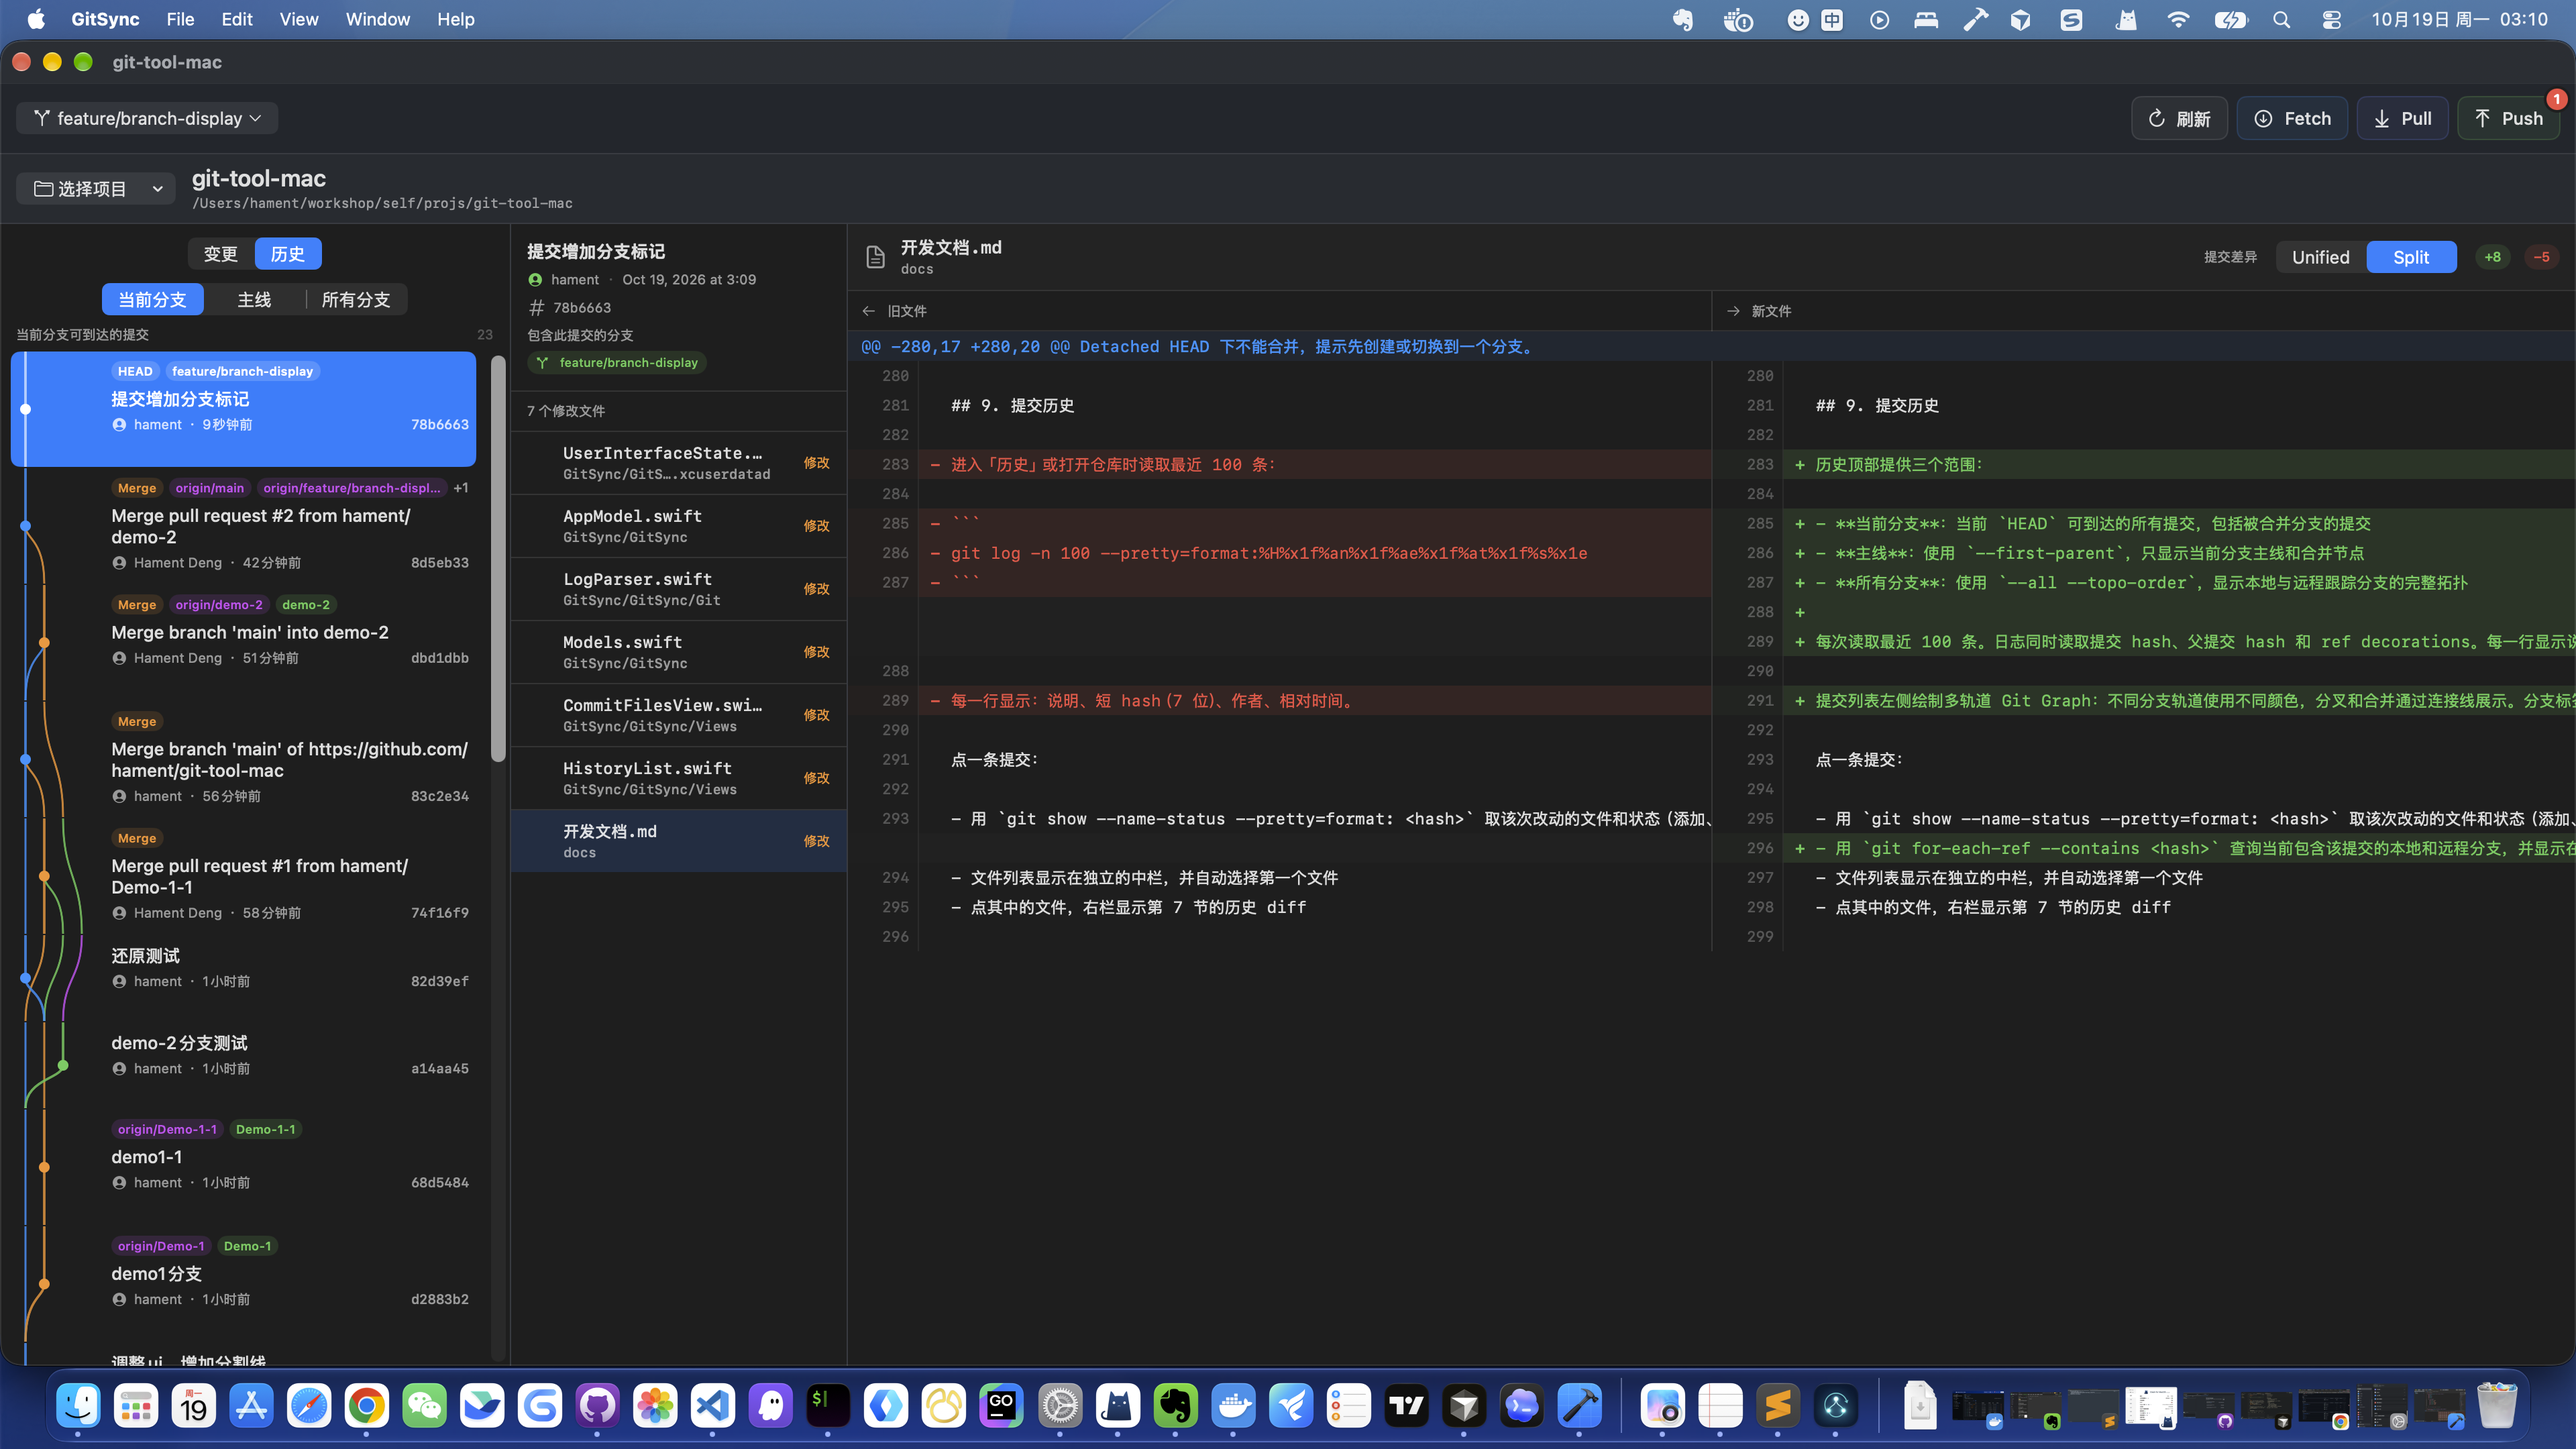
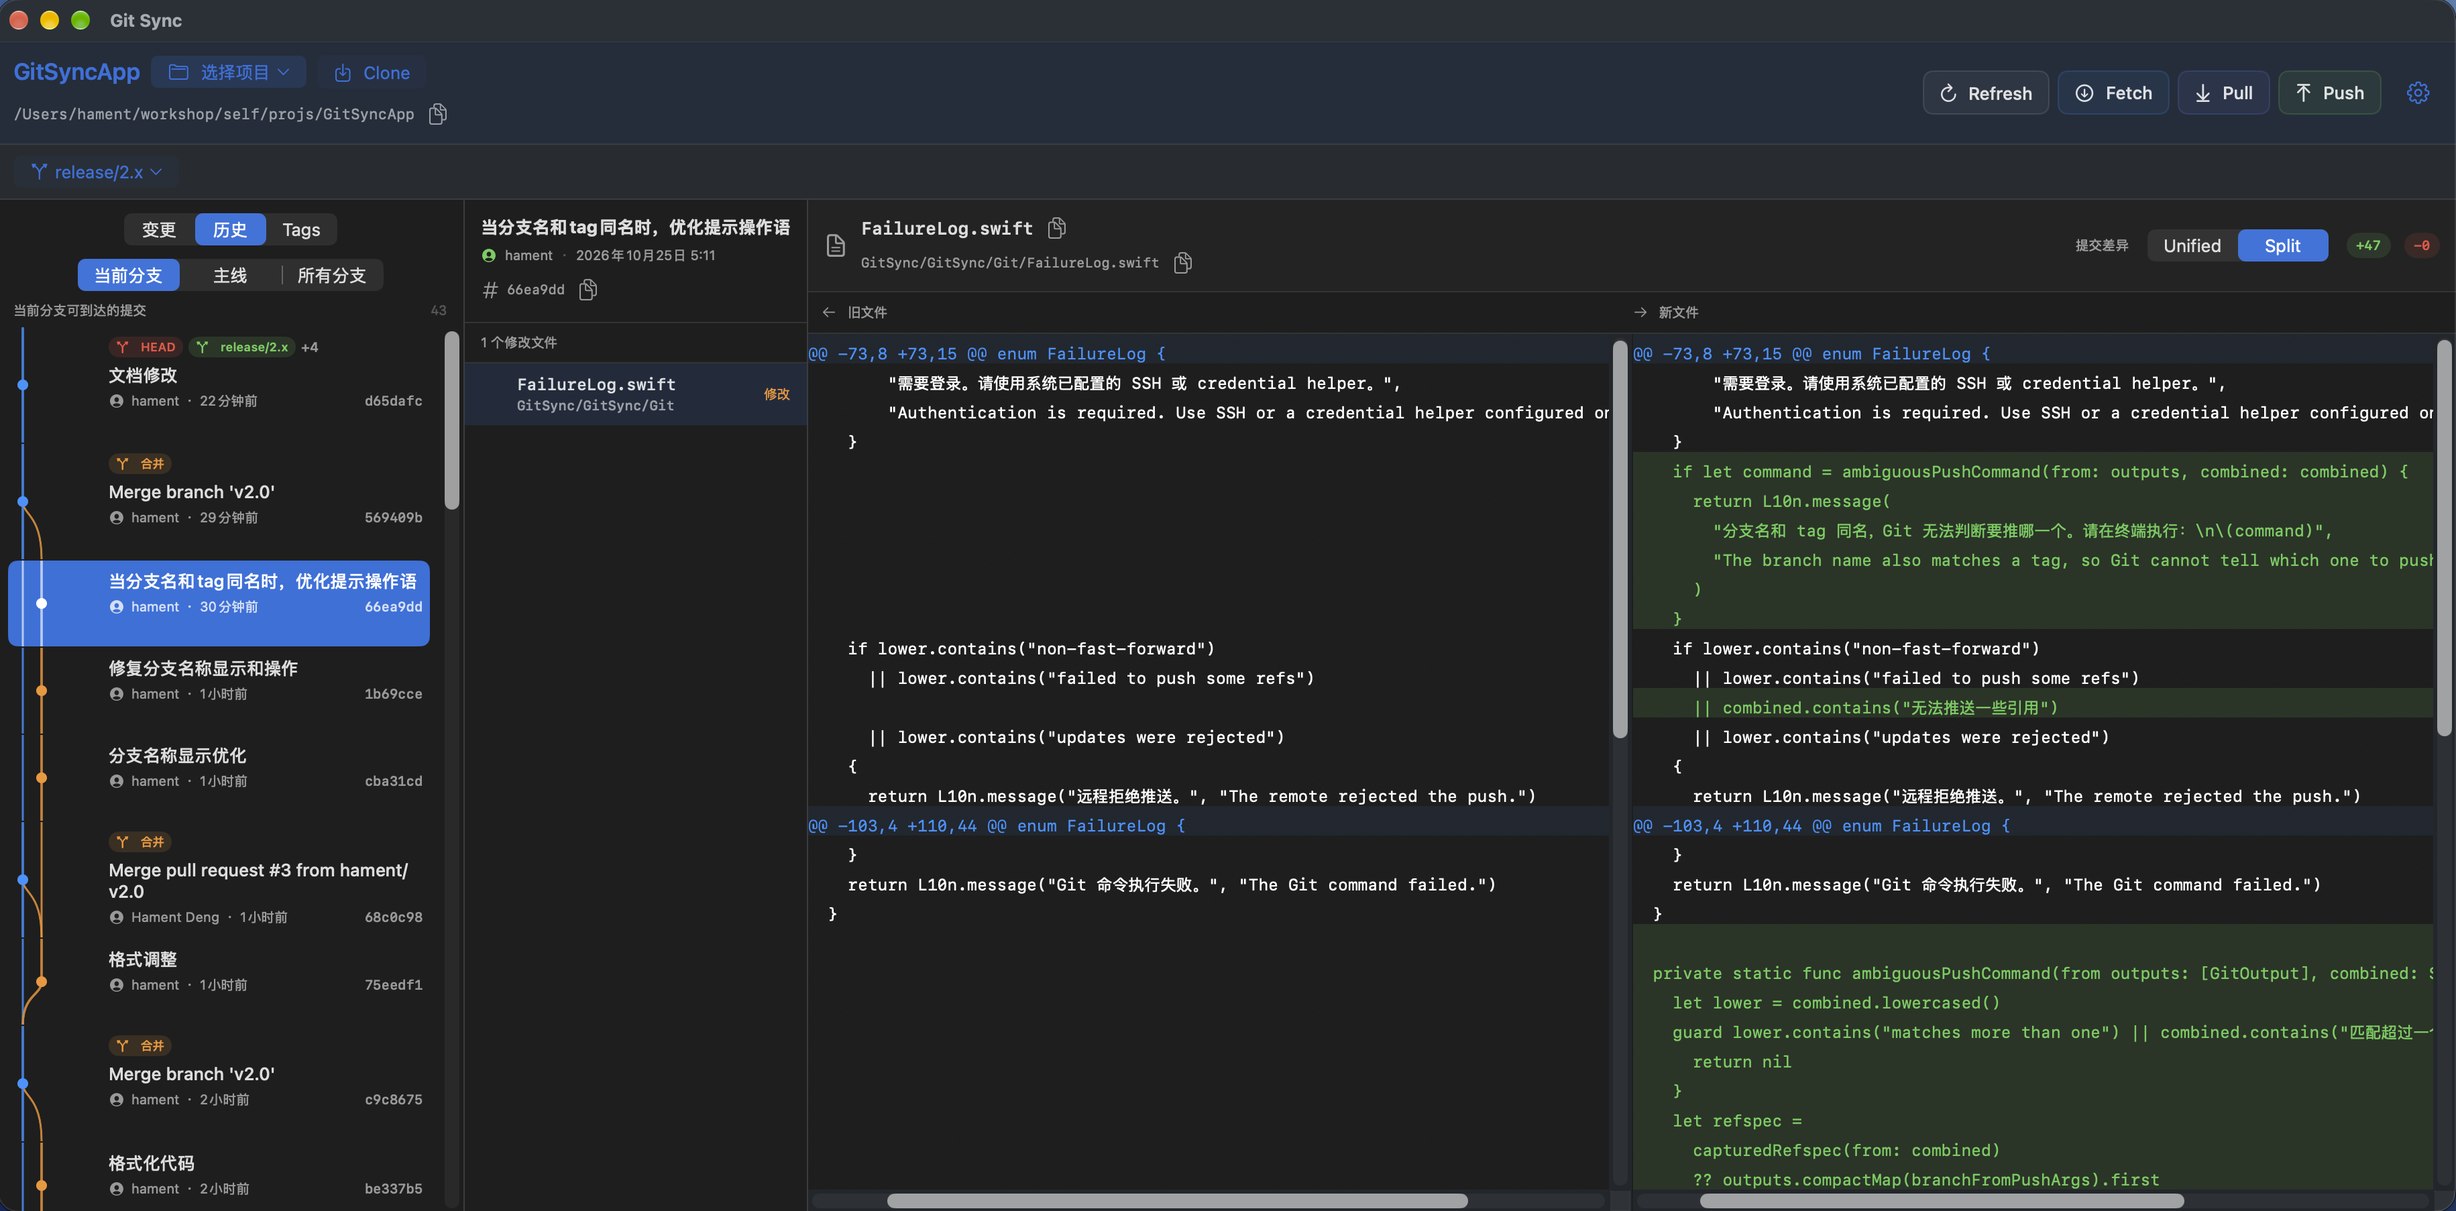
文档修改

diff --git a/README.en.md b/README.en.md
@@ -2,60 +2,63 @@
 
 [English](README.en.md) | [中文](README.md)
 
-A native Git app for Mac, written in Swift. Open a local repository to review file changes, manage branches, browse commit history, and Fetch, Pull, or Push.
+A native Git app for Mac, written in Swift. It stays light and fast. Open a local repository to review file changes, browse commit history and tags, and handle everyday remote sync. If GitHub Desktop feels heavy and slow, try this app.
 
-## Features
+## Highlights
+
+- **Basics**: Clone a repository, and Fetch, Pull, or Push the current one.
+- **Branches**: Search local and remote branches, compare any two branches side by side, or merge another branch into the current one.
+- **Multiple windows**: Each window holds one project, so you can work on several repositories at once.
+- **Theme colors**: Each project can have its own theme color.
+- **Languages**: The interface supports Simplified Chinese and English.
+- **Fast response**: The branch list still appears within a second even with tens of thousands of branches. Memory use and responsiveness are both well ahead of GitHub Desktop.
+
+## Interface
+
+The four screenshots below come from different project windows, each with its own theme color.
 
 ### File changes
 
-Check the files to commit, compare the diff on the right, and write the message at the bottom before committing.
+On Changes, check the files to commit, review the working tree diff on the right in Unified or Split mode, and write the message at the bottom. The toolbar switches projects, clones a repository, and runs Refresh, Fetch, Pull, and Push.
 
 ![File changes](images/1.文件变更.png)
 
-### Branches
-
-Search and switch local or remote branches, create a new branch, or merge another branch into the current one.
-
-![Branches](images/2.分支管理.png)
-
 ### Commit history
 
-View the commit graph for the current branch, the main line, or all branches. Select a commit to list its changed files, then compare them in Split or Unified mode.
+Open History to browse commits on the current branch, the main line, or all branches. Select a commit to see its message and changed files, then compare that commit's diff on the right. The first screenshot is Unified. The second is Split, with the old file and the new file side by side.
 
-![History, split diff](images/3.历史变更-split.png)
+![Current branch history, Unified](images/2.分支管理.png)
 
-![History, unified diff](images/4.历史变更-unified.png)
+![History, Split](images/3.历史变更-split.png)
+
+### Tags
+
+Search local tags on Tags. Select one to see its annotation, the commit it points to, and the changed files. Compare the content on the right in Unified or Split mode.
+
+![Tags](images/4.tags设置.png)
+
+## Build
+
+With Xcode installed, build from the repository root without opening the Xcode window:
+
+```bash
+xcodebuild \
+  -project GitSync/GitSync.xcodeproj \
+  -scheme GitSync \
+  -destination 'platform=macOS' \
+  -configuration Debug \
+  -derivedDataPath .build \
+  build
+```
+
+The first build creates the compiler cache and takes longer.
 
 ## Run
 
-With Xcode installed, you can build and launch from the repository root without opening the Xcode window:
-
 ```bash
-xcodebuild \
-  -project GitSync/GitSync.xcodeproj \
-  -scheme GitSync \
-  -destination 'platform=macOS' \
-  -configuration Debug \
-  -derivedDataPath .build \
-  build
-
 open .build/Build/Products/Debug/GitSync.app
 ```
 
-The first build creates the compiler cache and takes longer. After that, repeat the two commands above.
+The app is written to `.build/Build/Products/Debug/GitSync.app`. That directory is only for local builds and does not need to be committed.
 
 Quit a running copy before opening it again, or the previous process may stay open. After changing the code, rebuild first. Running `open` alone launches the last built app.
-
-## Build only
-
-```bash
-xcodebuild \
-  -project GitSync/GitSync.xcodeproj \
-  -scheme GitSync \
-  -destination 'platform=macOS' \
-  -configuration Debug \
-  -derivedDataPath .build \
-  build
-```
-
-The app is written to `.build/Build/Products/Debug/GitSync.app`. That directory is only for local builds and does not need to be committed.

diff --git a/README.md b/README.md
@@ -2,31 +2,50 @@
 
 [English](README.en.md) | 中文
 
-Mac 上的原生 Git 可视化工具App, 采用Swift开发。打开本机仓库后，可以查看文件变更、管理分支、浏览提交历史，并直接 Fetch、Pull、Push。
+Mac 原生的Git可视化App，用 Swift 开发，保持轻量,极致性能。打开本机仓库后，可以查看文件变更、浏览提交历史和 Tag，并完成日常的远程同步。如果你已经厌倦了github desktop 臃肿和响应缓慢, 可以尝试这个App!
 
-## 功能
+## 特色功能
+
+- **基本操作**：克隆仓库，以及对当前仓库执行 Fetch、Pull、Push。
+- **分支**：搜索本地和远程分支，任意两个分支可以放在一起对比，也可以把其他分支合并到当前分支。
+- **多窗口**：每个窗口对应一个项目，可以同时管理多个不同仓库。
+- **主题色**：不同项目可以各自设置主题色。
+- **多语言**：界面支持简体中文和 English。
+- **响应迅速**：即使加载多达上万个分支,分支列表依然可以秒级展示,无论内存占用还是响应速度,都大大优于github desktop的表现。
+
+## 界面
+
+下面四张图来自不同项目窗口，主题色也各不相同。
 
 ### 文件变更
 
-勾选要提交的文件，右侧对照查看 diff，在底部写说明后提交。
+在「变更」里勾选要提交的文件，右侧用 Unified 或 Split 查看工作区差异，底部写好说明后提交。顶部可以切换项目、克隆仓库，以及 Refresh、Fetch、Pull、Push。
 
 ![文件变更](images/1.文件变更.png)
 
-### 分支管理
-
-搜索并切换本地和远程分支，也可以新建分支，或把其他分支合并到当前分支。
-
-![分支管理](images/2.分支管理.png)
-
 ### 提交历史
 
-按当前分支、主线或所有分支查看提交图。选中一条提交后，中间列出改动文件，右侧用 Split 或 Unified 对照内容。
+切到「历史」，按当前分支、主线或所有分支查看提交。选中一条后，中间是说明和改动文件，右侧对照这次提交的差异。第一张是 Unified，第二张是 Split，左右分栏显示旧文件和新文件。
 
-![历史变更 Split](images/3.历史变更-split.png)
+![当前分支历史，Unified](images/2.分支管理.png)
 
-![历史变更 Unified](images/4.历史变更-unified.png)
 
-## 直接运行
+
+![历史变更，Split](images/3.历史变更-split.png)
+
+
+
+### Tags
+
+
+
+在「Tags」里搜索本地 Tag。选中后可以看到附注、对应提交和改动文件，右侧继续用 Unified 或 Split 对照内容。
+
+
+
+![Tags](images/4.tags设置.png)
+
+## 编译
 
 本机已安装 Xcode 后，不需要打开 Xcode 窗口，在仓库根目录执行：
 
@@ -39,23 +58,17 @@ xcodebuild \
   -derivedDataPath .build \
   build
 
+```
+
+第一次编译会下载或生成编译缓存，时间会长一些。
+
+
+## 运行
+
+```bash
 open .build/Build/Products/Debug/GitSync.app
 ```
 
-第一次编译会下载或生成编译缓存，时间会长一些。之后重复上面两条命令即可。
+编译结果在 `.build/Build/Products/Debug/GitSync.app`。这个目录只用于本地编译，不需要提交。
 
 应用已经在运行时，先退出再重新 `open`，否则可能仍是上一次的进程。修改代码后需要重新编译，只执行 `open` 会启动上一次编出来的应用。
-
-## 只编译
-
-```bash
-xcodebuild \
-  -project GitSync/GitSync.xcodeproj \
-  -scheme GitSync \
-  -destination 'platform=macOS' \
-  -configuration Debug \
-  -derivedDataPath .build \
-  build
-```
-
-编译结果在 `.build/Build/Products/Debug/GitSync.app`。这个目录只用于本地编译，不需要提交。
